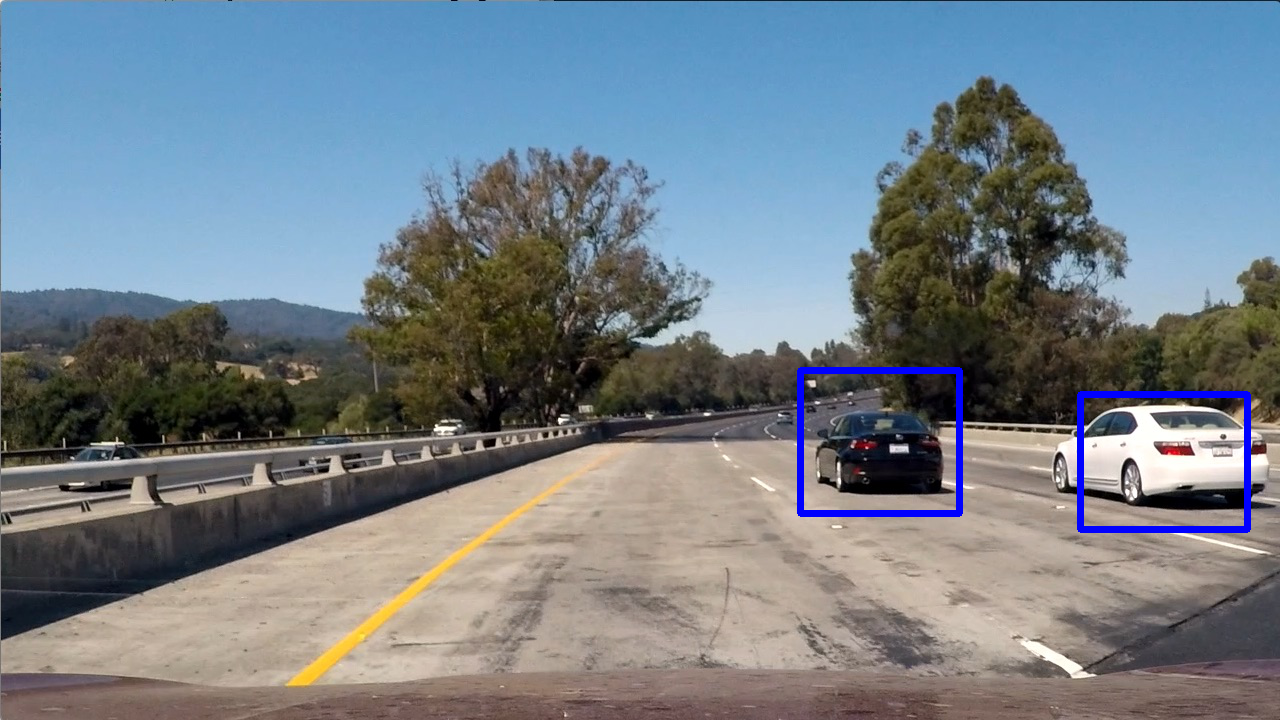
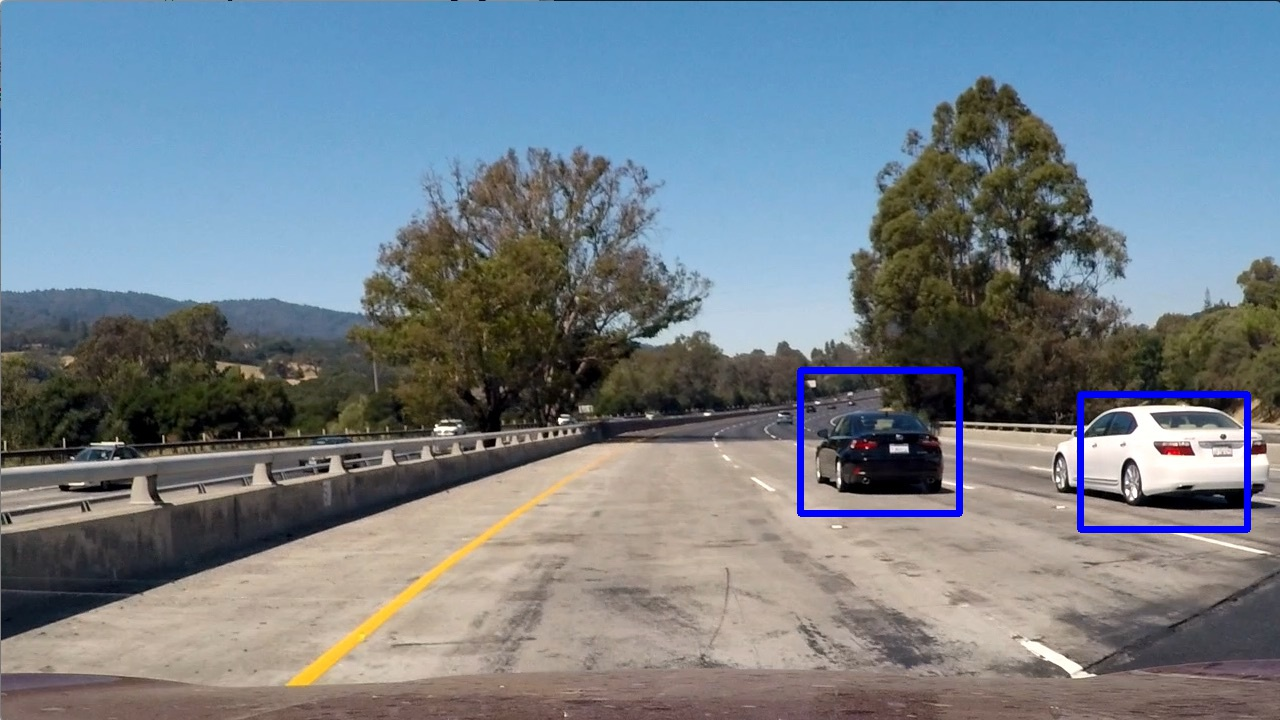
Added heatmaps to writeup

diff --git a/writeup_images_generator.py b/writeup_images_generator.py
@@ -4,7 +4,7 @@ import vehicle_detection as vd
 import glob
 import matplotlib.image as mpimg
 import matplotlib.pyplot as plt
-import io
+import matplotlib.cm as cm
 
 # Inputs
 cars = glob.glob('vehicles/*/*.png')
@@ -22,6 +22,10 @@ test1_out_f_name = 'output_images/test1_windows.jpg'
 test3_out_f_name = 'output_images/test3_windows.jpg'
 test5_out_f_name = 'output_images/test5_windows.jpg'
 test6_out_f_name = 'output_images/test6_windows.jpg'
+heatmap1_f_name = 'output_images/heatmap1.jpg'
+heatmap3_f_name = 'output_images/heatmap3.jpg'
+heatmap5_f_name = 'output_images/heatmap5.jpg'
+heatmap6_f_name = 'output_images/heatmap6.jpg'
 
 # Same constants as in vehicle_detection.py
 orient = vd.orient
@@ -143,21 +147,22 @@ def hog_features(car, non_car):
     fig.savefig(hog_image_f_name)
 
 
-def sliding_window(input_f_name, output_f_name, svc, X_scaler):
+def sliding_window(input_f_name, output_f_name, heatmap_f_name, svc, X_scaler):
     image = mpimg.imread(input_f_name)
     heat = vd.create_heatmap(image.shape)
     # run several times to "warm up" the heat map, as if it was part of a video with similar frames before it
     for _ in range(10):
-        draw_img = vd.process_image(image, svc, X_scaler, heat)
-    mpimg.imsave(output_f_name, draw_img)
+        draw_img, heatmap = vd.process_image_internal(image, svc, X_scaler, heat)
+    mpimg.imsave(output_f_name, draw_img, format='jpg')
+    mpimg.imsave(heatmap_f_name, heatmap, cmap=cm.Reds_r, format='jpg')
     print('Sliding window image generated: ' + output_f_name)
 
 
 def sliding_window_all(svc, X_scaler):
-    sliding_window(test1_f_name, test1_out_f_name, svc, X_scaler)
-    sliding_window(test3_f_name, test3_out_f_name, svc, X_scaler)
-    sliding_window(test5_f_name, test5_out_f_name, svc, X_scaler)
-    sliding_window(test6_f_name, test6_out_f_name, svc, X_scaler)
+    sliding_window(test1_f_name, test1_out_f_name, heatmap1_f_name, svc, X_scaler)
+    sliding_window(test3_f_name, test3_out_f_name, heatmap3_f_name, svc, X_scaler)
+    sliding_window(test5_f_name, test5_out_f_name, heatmap5_f_name, svc, X_scaler)
+    sliding_window(test6_f_name, test6_out_f_name, heatmap6_f_name, svc, X_scaler)
 
 
 def main():
@@ -171,9 +176,8 @@ def main():
     svc, X_scaler = vd.predict_cars()
     print('Training done!')
 
-    print('Sliding windows...')
+    print('Sliding windows and heatmaps...')
     sliding_window_all(svc, X_scaler)
     print('Sliding windows done!')
-
 
 main()

diff --git a/vehicle_detection.py b/vehicle_detection.py
@@ -303,7 +303,7 @@ def draw_labeled_bboxes(img, labels):
 
 
 # Process each video frame
-def process_image(original_img, svc, X_scaler, heat):
+def process_image_internal(original_img, svc, X_scaler, heat):
     ystart = 370
     ystop = 656
     spatial_size = (32, 32)
@@ -325,6 +325,11 @@ def process_image(original_img, svc, X_scaler, heat):
     labels = label(heatmap)
     draw_img = draw_labeled_bboxes(np.copy(original_img), labels)
 
+    return draw_img, heatmap
+
+# Process each video frame
+def process_image(original_img, svc, X_scaler, heat):
+    draw_img, heatmap = process_image_internal(original_img, svc, X_scaler, heat)
     return draw_img
 
 

diff --git a/README.md b/README.md
@@ -65,7 +65,7 @@ I searched the area 370<=y<656. For simplicity, the whole area was scanned for a
 
 #### 2. Show some examples of test images to demonstrate how your pipeline is working.  What did you do to optimize the performance of your classifier?
 
-Ultimately I searched on five scales using YCrCb 3-channel HOG features plus spatially binned color and histograms of color in the feature vector, which provided a nice result. For each frame shown below, the detected windows are processed multiple times in these test images to "warm up the heatmap", since the heatmap accumulates values over time when run on the video. Here are some example images:
+Ultimately I searched on five scales using YCrCb 3-channel HOG features plus spatially binned color and histograms of color in the feature vector, which provided a nice result. For each frame shown below, the detected windows are processed multiple times in these test images to "warm up the heatmap", since the heatmap accumulates values over time when run on the video. I implemented a very basic moving average where for each video frame, the previous heatmap is added to and then I multiply each heatmap pixel with 0.8. Here are some example images:
 
 <img src="output_images/test1_windows.jpg" width="427" height="240"><img src="output_images/test3_windows.jpg" width="427" height="240">
 <img src="output_images/test5_windows.jpg" width="427" height="240"><img src="output_images/test6_windows.jpg" width="427" height="240">
@@ -75,24 +75,20 @@ Ultimately I searched on five scales using YCrCb 3-channel HOG features plus spa
 ### Video Implementation
 
 #### 1. Provide a link to your final video output.  Your pipeline should perform reasonably well on the entire project video (somewhat wobbly or unstable bounding boxes are ok as long as you are identifying the vehicles most of the time with minimal false positives.)
-Here's a [link to my video result](./project_video.mp4)
+Here's a [link to my video result](./output_images/project_video_out.mp4).
 
 
 #### 2. Describe how (and identify where in your code) you implemented some kind of filter for false positives and some method for combining overlapping bounding boxes.
 
-I recorded the positions of positive detections in each frame of the video.  From the positive detections I created a heatmap and then thresholded that map to identify vehicle positions.  I then used `scipy.ndimage.measurements.label()` to identify individual blobs in the heatmap.  I then assumed each blob corresponded to a vehicle.  I constructed bounding boxes to cover the area of each blob detected.  
+I recorded the positions of positive detections in each frame of the video (across all the scales).  From the positive detections I created a heatmap and accumulated it into the current/previous heatmap, see [add_heat()](vehicle_detection.py#L268-L277) and then thresholded that map to identify vehicle positions.  I then used `scipy.ndimage.measurements.label()` to identify individual blobs in the heatmap, see [process_image_internal()](vehicle_detection.py#L305-L328).  I then assumed each blob corresponded to a vehicle.  I constructed bounding boxes to cover the area of each blob detected.
 
-Here's an example result showing the heatmap from a series of frames of video, the result of `scipy.ndimage.measurements.label()` and the bounding boxes then overlaid on the last frame of video:
+Here's an example result showing the heatmap from the test images, the result of `scipy.ndimage.measurements.label()` and the bounding boxes then overlaid on the frame:
 
-### Here are six frames and their corresponding heatmaps:
-
-![alt text][image5]
-
-### Here is the output of `scipy.ndimage.measurements.label()` on the integrated heatmap from all six frames:
-![alt text][image6]
-
-### Here the resulting bounding boxes are drawn onto the last frame in the series:
-![alt text][image7]
+### Here are four test images with bounding boxes and their corresponding heatmaps:
+<img src="output_images/heatmap1.jpg" width="427" height="240"><img src="output_images/test1_windows.jpg" width="427" height="240">
+<img src="output_images/heatmap3.jpg" width="427" height="240"><img src="output_images/test3_windows.jpg" width="427" height="240">
+<img src="output_images/heatmap5.jpg" width="427" height="240"><img src="output_images/test5_windows.jpg" width="427" height="240">
+<img src="output_images/heatmap6.jpg" width="427" height="240"><img src="output_images/test6_windows.jpg" width="427" height="240">
 
 
 
